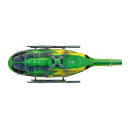
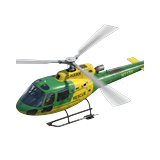
fix: regenerate helicopter as 3/4 perspective + pad to 160x160 with 16px margins
- New prompt: 3/4 aerial perspective instead of flat top-down
- Explicitly mentions complete tail boom and tail rotor fully shown
- AI still filled 128px frame edge-to-edge, so padded to 160x160 canvas
- 16px padding on all sides ensures nothing is cut off
- Display size updated to 160x160
- Bumped cache buster to v265

Changed region(s): [[0.0625, 0.1562, 0.9688, 0.8125]]

diff --git a/scripts/generate-ai-assets.ts b/scripts/generate-ai-assets.ts
@@ -273,7 +273,7 @@ const ASSETS: AssetDef[] = [
   furniture("desk_monitor_black", "top-down view of a modern slim-bezel computer monitor seen from front, completely black powered-off screen, stand base and neck, realistic office equipment, game sprite, isolated on white background", 3030),
   furniture("desk_monitor_side_off", "side view of a thin computer monitor profile, dark screen edge, stand base and neck, power LED, realistic office equipment, game sprite, isolated on white background", 3031),
   furniture("desk_monitor_side_lit", "side view of a thin computer monitor profile with glowing blue screen edge, stand base and neck, power LED, realistic office equipment, game sprite, isolated on white background", 3032),
-  furniture("helicopter_top", "top-down view of a green and yellow helicopter seen from directly above, spinning rotor blades blurred as a disc, landing skids visible, cockpit windshield, tail boom extending to the right, helicopter centered in frame with empty space around all edges, realistic aircraft, game sprite, isolated on white background", 3033),
+  furniture("helicopter_top", "3/4 aerial perspective view of a green and yellow helicopter, seen from above and slightly to the side, full helicopter visible including complete tail boom and tail rotor, landing skids visible, spinning rotor blades blurred as a disc, cockpit windshield, tail boom extending to the right with tail fin and tail rotor fully shown, helicopter small and centered with generous empty space around all edges, realistic aircraft, game sprite, isolated on white background", 3033),
 
   // ------------------------------------------------------- Tier 4: World items & props (Nano Banana 2 + Bria RMBG)
 

diff --git a/client/src/game/scene.ts b/client/src/game/scene.ts
@@ -4384,10 +4384,10 @@ export class OfficeScene extends Phaser.Scene {
       shadow.fillStyle(0x000000, 0.2);
       shadow.fillEllipse(0, 26, 90, 14);
 
-      // AI helicopter sprite — centered at origin, native size to avoid edge clipping
+      // AI helicopter sprite — centered at origin, sized to show full helicopter with padding
       const bodyImg = this.add.image(0, 0, heliKey)
         .setOrigin(0.5, 0.5)
-        .setDisplaySize(140, 140);
+        .setDisplaySize(160, 160);
 
       // --- rotor (top layer, positioned above body so rotation spins in-place) ---
       const rotor = this.add.graphics();

diff --git a/client/src/game/boot.ts b/client/src/game/boot.ts
@@ -57,7 +57,7 @@ export class BootScene extends Phaser.Scene {
     });
 
     // AI texture atlases (replaces 124+ individual requests with 4)
-    const atlasVer = "?v=264";
+    const atlasVer = "?v=265";
     this.load.image("ai-tiles-atlas", `assets/atlases/ai-tiles-atlas.webp${atlasVer}`);
     this.load.json("ai-tiles-atlas-meta", `assets/atlases/ai-tiles-atlas.json${atlasVer}`);
     this.load.image("ai-sprites-atlas", `assets/atlases/ai-sprites-atlas.webp${atlasVer}`);
